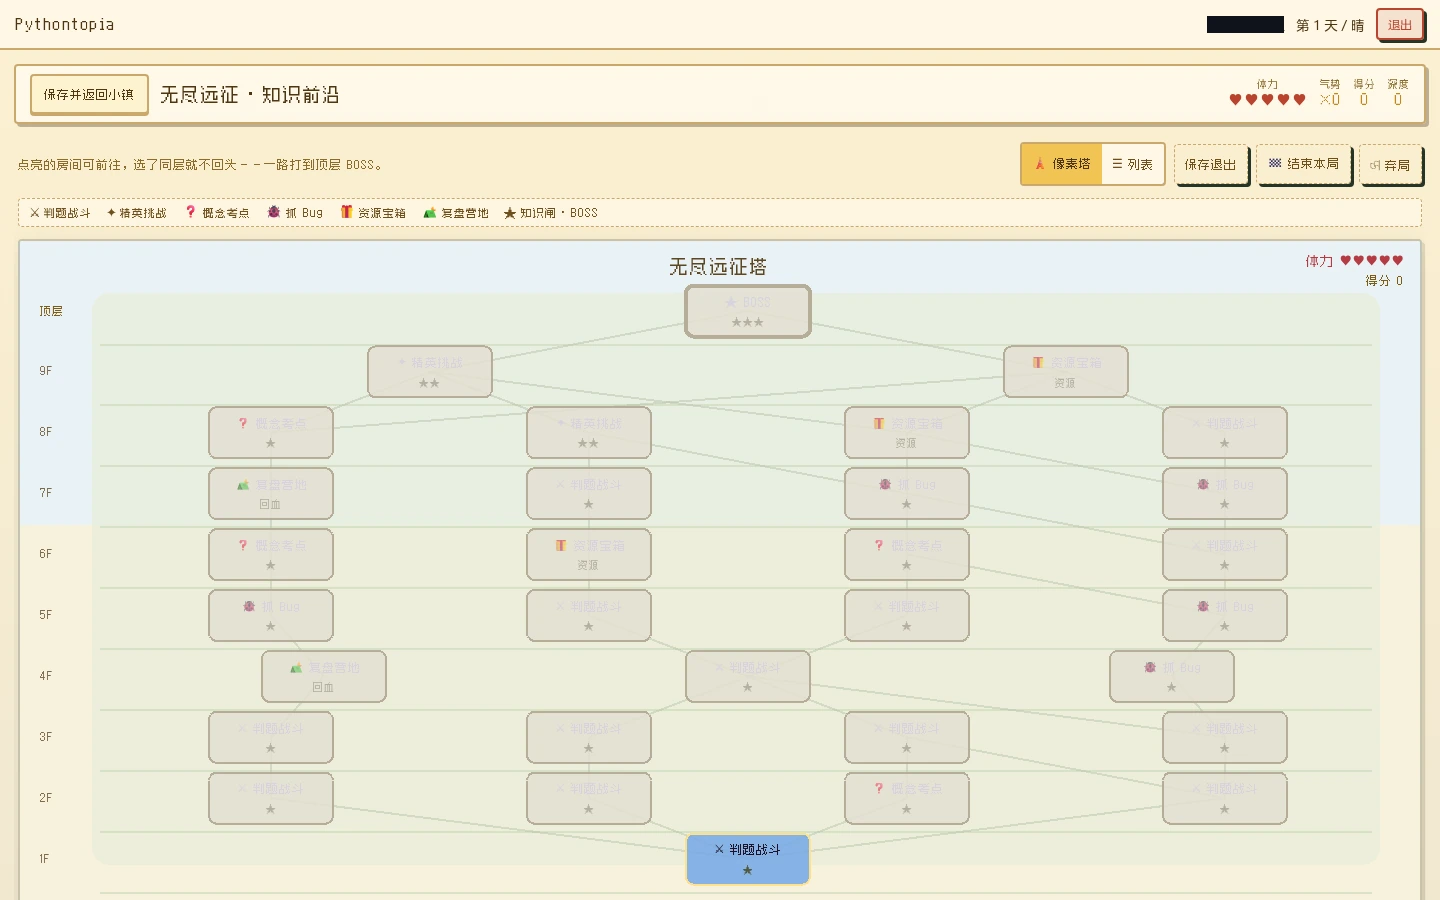
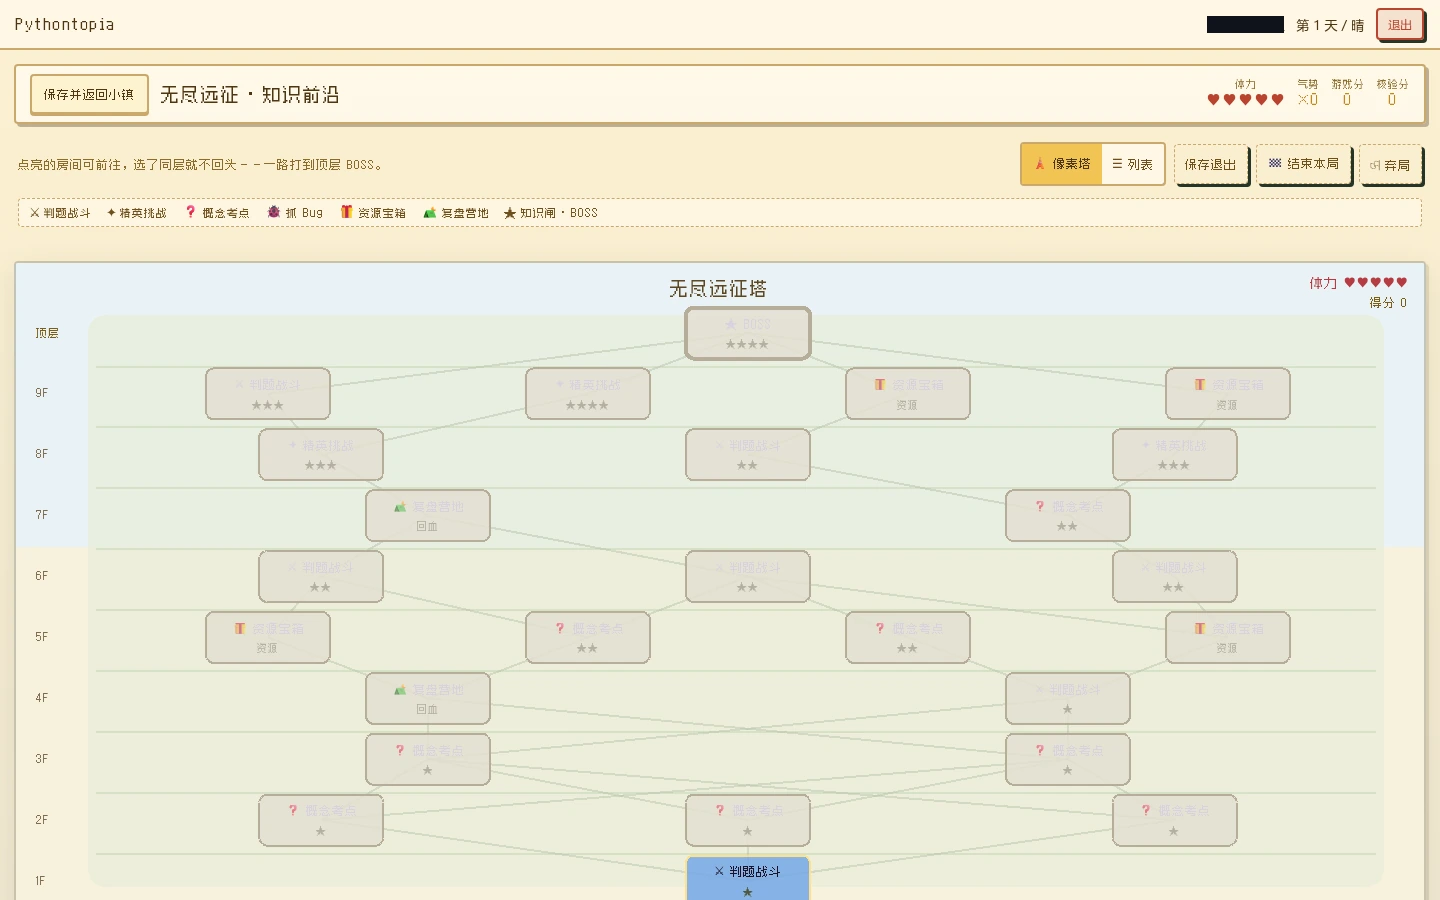
fix(web): close expedition and boss verification gaps

diff --git a/frontend/e2e/guideScreenshots.spec.ts b/frontend/e2e/guideScreenshots.spec.ts
@@ -547,8 +547,8 @@ test.describe('引导手册 23 张截图（输出 frontend/public/guide/screensh
 
   test('26-expedition-tower 无尽远征浅色分支地图', async ({ page, context, request }, testInfo) => {
     await prepareStudentContext(context, request);
-    await page.goto('/arena/1', { waitUntil: 'domcontentloaded' });
-    await expect(page).toHaveURL(/\/expedition\?focus=1/);
+    await page.goto('/expedition', { waitUntil: 'domcontentloaded' });
+    await expect(page).toHaveURL(/\/expedition$/);
     await expect(page.locator('[data-testid="expedition-page"]')).toBeVisible();
     await page.locator('[data-testid="expedition-begin"]').click();
     await expect(page.locator('[data-testid="expedition-map"]')).toBeVisible({ timeout: 60_000 });
@@ -560,7 +560,7 @@ test.describe('引导手册 23 张截图（输出 frontend/public/guide/screensh
 
   test('27-expedition-node 无尽远征节点挑战详情', async ({ page, context, request }, testInfo) => {
     await prepareStudentContext(context, request);
-    await page.goto('/arena/1', { waitUntil: 'domcontentloaded' });
+    await page.goto('/expedition', { waitUntil: 'domcontentloaded' });
     await expect(page.locator('[data-testid="expedition-page"]')).toBeVisible();
     await page.locator('[data-testid="expedition-begin"]').click();
     await expect(page.locator('[data-testid="expedition-map"]')).toBeVisible({ timeout: 60_000 });

diff --git a/frontend/tests/game/scenes/ExpeditionBossScene.spec.ts b/frontend/tests/game/scenes/ExpeditionBossScene.spec.ts
@@ -97,15 +97,26 @@ describe('ExpeditionBossScene', () => {
       expect.any(Number), expect.any(Number), '体力 3 / 5', expect.any(Object),
     );
 
-    const settledPass: ExpeditionBossView = {
+    const pendingAttempt: ExpeditionBossView = {
       ...READY_BOSS,
-      status: 'passed',
+      status: 'judging',
       attemptId: 'problem-42',
+    };
+    loadExpeditionBoss(pendingAttempt, { onBossHit });
+
+    expect(scene.cameraShake).not.toHaveBeenCalled();
+    expect(scene.cameraFlash).not.toHaveBeenCalled();
+    expect(onBossHit).not.toHaveBeenCalled();
+
+    const settledPass: ExpeditionBossView = {
+      ...pendingAttempt,
+      status: 'passed',
     };
     loadExpeditionBoss(settledPass, { onBossHit });
     loadExpeditionBoss(settledPass, { onBossHit });
 
     expect(scene.cameraShake).toHaveBeenCalledTimes(1);
+    expect(scene.cameraFlash).toHaveBeenCalledTimes(1);
     expect(onBossHit).toHaveBeenCalledTimes(1);
   });
 
@@ -127,6 +138,7 @@ describe('ExpeditionBossScene', () => {
       expect.any(Number), expect.any(Number), '体力 2 / 5', expect.any(Object),
     );
     expect(scene.cameraShake).not.toHaveBeenCalled();
+    expect(scene.cameraFlash).not.toHaveBeenCalled();
     expect(onBossHit).not.toHaveBeenCalled();
   });
 });

diff --git a/backend/src/main/java/com/pythontopia/world/boss/BossService.java b/backend/src/main/java/com/pythontopia/world/boss/BossService.java
@@ -1,5 +1,6 @@
 package com.pythontopia.world.boss;
 
+import com.pythontopia.common.error.BusinessException;
 import com.pythontopia.learner.event.LearningEvent;
 import com.pythontopia.learner.profile.dto.LearnerProfileSignals;
 import com.pythontopia.learner.profile.service.PassiveProfileService;
@@ -20,6 +21,7 @@ import com.pythontopia.world.boss.dto.BossProblemDto;
 import com.pythontopia.world.boss.dto.BossProblemRequest;
 import com.pythontopia.world.boss.dto.BossProblemRequest.ProfileSignalsPayload;
 import com.pythontopia.world.boss.dto.BossTestCasePayload;
+import com.pythontopia.world.boss.dto.FrontierPickDto;
 import com.pythontopia.world.boss.dto.FrontierSelectRequest;
 import com.pythontopia.world.boss.dto.FrontierSelectResultDto;
 import com.pythontopia.world.boss.review.ApprovedBossProblem;
@@ -40,6 +42,7 @@ import java.util.Set;
 import java.util.UUID;
 import java.util.concurrent.ConcurrentHashMap;
 import java.util.concurrent.ConcurrentMap;
+import java.util.stream.Collectors;
 import org.slf4j.Logger;
 import org.slf4j.LoggerFactory;
 import org.springframework.context.ApplicationEventPublisher;
@@ -136,7 +139,23 @@ public class BossService {
    */
   public FrontierSelectResultDto selectFrontier(
       Long userId, Integer focusChapter, String preferredKcCode) {
-    return learnerTwinService.frontier(userId, focusChapter, List.of(), 40, preferredKcCode);
+    FrontierSelectResultDto frontier =
+        learnerTwinService.frontier(userId, focusChapter, List.of(), 40, preferredKcCode);
+    List<String> candidateKcs =
+        frontier.picks().stream().map(FrontierPickDto::kcCode).distinct().toList();
+    Set<String> practiceKcs =
+        chapterProblemBankRepository.findByKcCodes(candidateKcs).stream()
+            .map(PreferredCodingQuestion::kcCode)
+            .collect(Collectors.toSet());
+    List<FrontierPickDto> playablePicks =
+        frontier.picks().stream().filter(pick -> practiceKcs.contains(pick.kcCode())).toList();
+    if (playablePicks.isEmpty()) {
+      throw new BusinessException(
+          org.springframework.http.HttpStatus.UNPROCESSABLE_ENTITY,
+          "EXPEDITION_NO_PRACTICE_PROBLEMS",
+          "当前学习范围没有可用于远征的课程编程题，请选择包含编程练习的章节");
+    }
+    return new FrontierSelectResultDto(playablePicks);
   }
 
   public BossProblemDto fetchProblem(int chapter, BossProblemRequest request, Long userId) {

diff --git a/backend/src/test/java/com/pythontopia/world/boss/BossServiceTest.java b/backend/src/test/java/com/pythontopia/world/boss/BossServiceTest.java
@@ -877,6 +877,51 @@ class BossServiceTest {
   }
 
   @Test
+  @DisplayName("远征开局过滤没有课程编程题的 KC，避免新手落在不可玩的首节点")
+  void expeditionFrontierOnlyIncludesKnowledgePointsWithCourseProblems() {
+    var candidates = new FrontierSelectResultDto(
+        List.of(
+            new FrontierPickDto("PY43-KC-001", 1, 1, "尚未评估"),
+            new FrontierPickDto("PY43-KC-016", 2, 1, "尚未评估")));
+    when(learnerTwinService.frontier(7L, null, List.of(), 40, "PY43-KC-001"))
+        .thenReturn(candidates);
+    when(chapterProblemBankRepository.findByKcCodes(List.of("PY43-KC-001", "PY43-KC-016")))
+        .thenReturn(List.of(courseProblem("PY43-KC-016")));
+
+    var result = service.selectFrontier(7L, null, "PY43-KC-001");
+
+    assertThat(result.picks()).extracting(FrontierPickDto::kcCode)
+        .containsExactly("PY43-KC-016");
+    verifyNoInteractions(graphClient);
+  }
+
+  @Test
+  @DisplayName("聚焦章节没有课程编程题时以明确业务错误拒绝开局")
+  void expeditionFrontierRejectsChapterWithoutCourseProblems() {
+    when(learnerTwinService.frontier(7L, 1, List.of(), 40, null))
+        .thenReturn(new FrontierSelectResultDto(
+            List.of(new FrontierPickDto("PY43-KC-001", 1, 1, "尚未评估"))));
+    when(chapterProblemBankRepository.findByKcCodes(List.of("PY43-KC-001")))
+        .thenReturn(List.of());
+
+    assertThatThrownBy(() -> service.selectFrontier(7L, 1, null))
+        .isInstanceOfSatisfying(
+            com.pythontopia.common.error.BusinessException.class,
+            exception -> {
+              assertThat(exception.code()).isEqualTo("EXPEDITION_NO_PRACTICE_PROBLEMS");
+              assertThat(exception.status())
+                  .isEqualTo(org.springframework.http.HttpStatus.UNPROCESSABLE_ENTITY);
+            });
+    verifyNoInteractions(graphClient);
+  }
+
+  private static PreferredCodingQuestion courseProblem(String kcCode) {
+    var sample = new CodingCase("", "0");
+    return new PreferredCodingQuestion(
+        1L, "course question", "statement", List.of(sample), List.of(sample), "print(0)", kcCode);
+  }
+
+  @Test
   @DisplayName("Boss 取题使用数字孪生针对当前 KC 的规则难度")
   void fetchProblemUsesSharedLearnerDifficultyInsteadOfClientDifficulty() {
     when(learnerTwinService.recommendedDifficulty(7L, "PY43-KC-001")).thenReturn(2);

diff --git a/backend/src/test/java/com/pythontopia/world/boss/ExpeditionRunPostgresIntegrationTest.java b/backend/src/test/java/com/pythontopia/world/boss/ExpeditionRunPostgresIntegrationTest.java
@@ -514,7 +514,7 @@ class ExpeditionRunPostgresIntegrationTest {
     long userId = createStudent();
     ExpeditionRunService runs = new ExpeditionRunService(jdbc, new ObjectMapper());
     ExpeditionRunDto active = startRun(runs, userId, 1, false);
-    Map<String, Object> chestNode = findNode(active, "chest");
+    Map<String, Object> chestNode = findRewardNode(active);
     List<String> sixRelics =
         List.of("calm_mind", "combo_scholar", "second_wind", "focus_lens", "quick_thinker", "first_aid");
     seedReachableNode(userId, active, chestNode, "reward", 2, 5, sixRelics);
@@ -546,7 +546,7 @@ class ExpeditionRunPostgresIntegrationTest {
     long userId = createStudent();
     ExpeditionRunService runs = new ExpeditionRunService(jdbc, new ObjectMapper());
     ExpeditionRunDto started = startRun(runs, userId, 1, false);
-    Map<String, Object> chestNode = findNode(started, "chest");
+    Map<String, Object> chestNode = findRewardNode(started);
     String nodeId = (String) chestNode.get("id");
     seedReachableNode(userId, started, chestNode, "reward", 2, 5, List.of());
 
@@ -1434,6 +1434,13 @@ class ExpeditionRunPostgresIntegrationTest {
         .filter(node -> kind.equals(node.get("kind")))
         .findFirst()
         .orElseThrow(() -> new AssertionError("Generated map has no " + kind + " node"));
+  }
+
+  private static Map<String, Object> findRewardNode(ExpeditionRunDto run) {
+    return run.nodes().stream()
+        .filter(node -> "chest".equals(node.get("kind")) || "elite".equals(node.get("kind")))
+        .findFirst()
+        .orElseThrow(() -> new AssertionError("Generated map has no reward node"));
   }
 
   private static Map<String, Object> nodeById(ExpeditionRunDto run, String nodeId) {

diff --git a/backend/src/test/java/com/pythontopia/learner/twin/AdaptivePracticePolicyTest.java b/backend/src/test/java/com/pythontopia/learner/twin/AdaptivePracticePolicyTest.java
@@ -78,6 +78,22 @@ class AdaptivePracticePolicyTest {
   }
 
   @Test
+  void allowsAnUnassessedTopicAsALevelOneDiagnosticWhenItsPrerequisitesAreAlsoUnassessed() {
+    var picks = policy.select(
+        List.of(
+            kc("KC-FOUNDATION", 1, false, null, false, List.of(), List.of()),
+            kc("KC-DIAGNOSTIC", 2, false, null, false, List.of(), List.of("KC-FOUNDATION"))),
+        Set.of(), null, List.of(), 40);
+
+    var diagnostic = picks.stream()
+        .filter(pick -> "KC-DIAGNOSTIC".equals(pick.kcCode()))
+        .findFirst()
+        .orElseThrow();
+    assertThat(diagnostic.difficulty()).isEqualTo(1);
+    assertThat(diagnostic.reason()).contains("尚未评估");
+  }
+
+  @Test
   void usesAnotherTopicWhenExcludedAndAllowsRepeatOnlyWhenNoAlternativeExists() {
     var topics = List.of(
         kc("KC-A", 1, true, 0.4, false, List.of(), List.of()),

diff --git a/backend/src/main/java/com/pythontopia/learner/twin/AdaptivePracticePolicy.java b/backend/src/main/java/com/pythontopia/learner/twin/AdaptivePracticePolicy.java
@@ -122,7 +122,14 @@ public class AdaptivePracticePolicy {
   private static boolean prerequisitesReady(Candidate candidate, Map<String, Candidate> byCode) {
     if (candidate == null) return false;
     for (String prerequisite : candidate.prerequisiteCodes()) {
-      if (!prerequisiteReady(byCode.get(prerequisite))) return false;
+      Candidate prerequisiteCandidate = byCode.get(prerequisite);
+      if (!prerequisiteReady(prerequisiteCandidate)) {
+        // Unknown prerequisites do not prove weakness; allow only an unassessed target as a
+        // level-one diagnostic. Known low mastery still blocks the next topic.
+        if (prerequisiteCandidate == null
+            || candidate.assessed()
+            || prerequisiteCandidate.assessed()) return false;
+      }
     }
     return true;
   }

diff --git a/docs/guide/screenshot-manifest.md b/docs/guide/screenshot-manifest.md
@@ -62,8 +62,8 @@
 | 23 | `23-clients.webp` | `/guide?topic=clients` | 学生会话；滚动到「多端下载」主题的下载卡片区 | `guide-content` 含「多端下载」→ `guide-downloads` 可见并含 Android / Windows 下载卡 | 无 |
 | 24 | `24-code-theater-stage.webp` | `/code-theater` | 学生会话；点「运行」后代码傀儡执行到循环中段（脚本梯发光行、变量牌翻新、循环跑道计数） | `code-theater-page` 与 `ct-quest` 可见 → 点 `ct-run` → `ct-stage` 与 `ct-steps` 可见，傀儡停在 `ct-world` 内某一执行行 | 无 |
 | 25 | `25-endless-result.webp` | `/endless` | 学生会话；点 `endless-start` 连答数题后命中一次判题结算 | `endless-page` → `endless-start` → `endless-body` → 至少一次 `endless-submit` → `endless-result` 可见，且 `endless-streak` / `endless-total-score` 有值 | 无 |
-| 26 | `26-arena-tower.webp` | `/arena/1` | 学生会话；展示第 1 章闯关塔 10 关阶梯（9 小关 + 第 10 关 BOSS），部分已通关点亮 | `arena-page` → `arena-steps` 可见 → 10 个 `arena-step-1-1`…`arena-step-1-10` 渲染（末关为 boss） | 无 |
-| 27 | `27-loop-mastery.webp` | `/arena/1` | 学生会话；点开某一关详情，展示该关 KC、弱项推荐徽标与画像接入提示（练→测→掌握→画像回流的落点） | `arena-page` → 点某个 `arena-step-1-*` → `arena-detail` 可见 → `arena-reco-badge` 与 `arena-profile-hint` 可见 | 无 |
+| 26 | `26-arena-tower.webp` | `/expedition` | 学生会话；开始一局全局自适应远征，展示 10 层分支地图与顶层 Boss 节点 | `expedition-page` → 点 `expedition-begin` → `expedition-map` 与 Phaser `expedition-canvas` 可见 | 新手以难度 1 诊断尚未评估知识点；课程题库无可玩题时提示先修学习路径 |
+| 27 | `27-loop-mastery.webp` | `/expedition` | 学生会话；开始远征并进入可达挑战节点，展示服务端课程题、KC 与统一编辑器 | `expedition-page` → 点 `expedition-begin` → 地图列表中进入可达节点 → `expedition-challenge` 与 `challenge-workspace` 可见 | 远征题优先复用预生成题，Graph 不可用时使用同 KC 课程题库兜底 |
 | 28 | `28-code-theater-debug.webp` | `/code-theater` | 学生会话；模拟「从失败练习跳入」（载入一段未通过代码）运行后，世界目标未全部达成（如第 4 盏灯仍黑） | `code-theater-page` 与 `ct-quest` 可见 → 点 `ct-run` → `ct-world` 显示部分目标未点亮（未达成态） | 无 |
 | 29 | `29-endless-weak-kc.webp` | `/endless` | 学生会话；锁定 `endless-focus-chapter` 后连答，展示按画像弱项出题 + 历史记录 | `endless-page` → 选择 `endless-focus-chapter` → `endless-start` → `endless-history` 可见且含知识点 / 难度记录 | 无 |
 

diff --git a/docs/plans/2026-10-13-digital-twin-simplification-worklog.md b/docs/plans/2026-10-13-digital-twin-simplification-worklog.md
@@ -169,3 +169,10 @@
 - 远征地图/Phaser 帧率沿用同日此前 Chromium 样本（地图就绪 1.89 s、Boss 帧间隔 P50/P95 16.7/16.8 ms；合成结算状态），本次未重复浏览器地图采样。ECS/公网、真实用户视觉质量与完整 Maven 成功仍未验证。
 - 工程命名/格式检查以 [Google Java Style Guide](https://google.github.io/styleguide/javaguide.html)、[Vue props guide](https://vuejs.org/guide/components/props)、[typescript-eslint naming-convention](https://typescript-eslint.io/rules/naming-convention/) 为参考，限于本轮触及文件，不触发全仓重排。已删除临时性能账号并停止本地开发容器；数据卷保留。
 - 停止开发栈后重跑完整后端 `mvn test`：1353 tests、0 failures、7 errors，`BUILD FAILURE`。Surefire 确认 6 个 pgvector Testcontainers 因 Docker 动态宿主端口 `address already in use` 无法启动，另 `LongTermClassroomEffectSimulationTest` 遇 JDBC 连接拒绝；单线程重跑没有消除该环境问题。
+
+## 2026-10-14 收尾复验：未评估 KC 诊断入口
+
+- 真实新手画像的 frontier 仅包含首个未评估 KC；若其先修也未评估，策略允许该 KC 以难度 1 进入诊断练习。Boss 题目入口同时过滤无课程编程题的 KC；显式聚焦无题 KC 时返回 `EXPEDITION_NO_PRACTICE_PROBLEMS`，不伪造题目或能力证据。
+- 本轮后端相关测试隔离复跑：`AdaptivePracticePolicyTest` 6 项、`BossServiceTest` 45 项、`ExpeditionRunPostgresIntegrationTest` 27 项通过；Testcontainers 空库迁移到 V212。全量 Web 266 个文件 / 2533 项 Vitest 通过，typecheck 通过；全量 Maven 1359 项中 0 assertion failures、7 个环境级 errors（6 个 pgvector 容器启动失败、1 个长期仿真数据库连接拒绝）。
+- 功能复验结束后，经本地 Vite 代理连续启动远征 14 次（2 次预热，12 个计时样本）：P50 20.14 ms、P95 24.75 ms，地图 29 个节点；未发起 DeepSeek 请求，临时账号与存档已删除。此处只测建局接口，不代表 Graph 出题、正式判题或线上延迟。
+- Twin 的学习成效 A/B、BKT/未来路线概率、ECS/公网和真实用户长期效果仍属计划暂缓或未验证项；不得以本次功能回归代替成效评估。

diff --git a/docs/plans/2026-10-14-web-engineering-cleanup-worklog.md b/docs/plans/2026-10-14-web-engineering-cleanup-worklog.md
@@ -9,3 +9,9 @@
 - 生产构建保留 Vite 对 Pyodide Node 内置模块 externalize 和若干大 chunk 的现有 warning；未调整包拆分或运行时加载策略，因为这属于性能工作，按用户要求后置。
 - 后端当前快照全量 `mvn test` 为 1356 tests、0 failures、7 errors，6 个 pgvector Testcontainers 在映射宿主端口时遇 `address already in use`，另 1 个长期仿真 JDBC reset；单独重跑后长期仿真通过，但 6 个容器用例仍撞端口。当前本机 ephemeral port range 仅为 `44620 48715`，数据库流量产生的 TIME-WAIT 端口与 Docker 随机映射重叠。本轮没有改系统网络配置；Boss 改动的 61 项定向 Maven 测试通过。
 - 全仓 Spotless 仍有历史 Java 格式债务。此次聚焦 Web，不做 622 个 Java 文件的批量重排，也不重命名跨语言 API DTO。Twin 学习成效对照、完整 Boss 最终节点的浏览器实战演出、生产 Piston/ECS 与公网验证仍未完成。
+
+## 2026-10-14 收尾复验
+
+- 当前快照 Web Vitest 为 266 files / 2533 tests，通过；TypeScript typecheck 通过；全量 ESLint 0 errors / 7 warnings，warning 仍限于未改文件中的可选 prop 提示和账号隔离测试 mock。远征地图/挑战入口 Chromium E2E 2 项通过，`git diff --check` 通过。
+- 本轮改动涉及的后端类隔离复跑 78 项通过。全量 Maven 为 1359 tests、0 assertion failures、7 errors；6 个 pgvector Testcontainers 在启动阶段失败，另一个长期仿真用例因 PostgreSQL 连接拒绝失败。没有将全量结果标记为通过。
+- 工程命名/格式遵循 Google Java、Vue 与 typescript-eslint 官方指引；保留已有 7 条 lint warning，不在此次功能收尾中扩大成全仓格式重排。功能验证完成后，经 Vite 代理对远征建局做 12 个计时样本，P50 20.14 ms、P95 24.75 ms；不包含模型生成与正式判题延迟。

diff --git a/docs/project/CHANGELOG.md b/docs/project/CHANGELOG.md
@@ -1,5 +1,13 @@
 # Changelog
 
+## 2026-10-14 — 远征与 Web 收尾复验
+
+- 首次进入全局远征时，未评估 KC 且其先修同样未评估的节点可作为难度 1 诊断练习；正式选题仍只保留课程编程题库确有题目的 KC，无匹配题时返回明确错误，不借用其他知识点题目。
+- 浏览器引导截图改为当前 `/expedition` 入口，更新地图与真实课程题截图。Chromium 两项通过；Web 全量 Vitest 266 个文件 / 2533 项通过，TypeScript typecheck 通过；全量 ESLint 0 errors、7 条既有 warning。
+- 本轮涉及的后端选题、Boss 服务和 PostgreSQL 远征集成测试单独通过，共 78 项。全量 `mvn test` 为 1359 tests、0 assertion failures、7 errors：6 个 pgvector Testcontainers 启动错误，另 1 个长期仿真测试数据库连接拒绝；全量未通过。
+- Boss Phaser 场景新增回归覆盖结算成功后只播放一次受击、失败不扣 Boss 血量；完整最终 Boss 实际判题浏览器流程仍未验证。DeepSeek 文图真实调用证据见下方既有记录；本次没有增加模型请求。
+- 功能复验后完成最后一轮本地性能采样：经 Vite 代理启动远征 14 次（2 次预热、12 个计时样本），建局 P50 20.14 ms、P95 24.75 ms，地图 29 个节点；未发起 DeepSeek 请求，临时账号与存档已清理。该采样不涵盖 Graph 出题、正式判题、完整 Boss 实战或线上负载。
+
 ## 2026-10-14 — 状态文档与模型出口纠偏
 
 - 将比赛符合度、执行日志和 Beta 回归报告中的旧 Spark/TTS 配置标为历史状态，补上当前 DeepSeek 文图输入契约与 TTS/ASR 等媒体出口关闭说明，避免旧截图或结果被误用作当前验收结论。

diff --git a/docs/plans/2026-10-14-expedition-boss-scene.md b/docs/plans/2026-10-14-expedition-boss-scene.md
@@ -114,4 +114,5 @@ Expected: no whitespace errors; asset sync check reports no missing required fil
 - The scene only runs its hit effect/audio after a settled passing result. The failed-result path keeps Boss health intact and displays the run's real HP. Existing portraits are reused; one Kenney CC0 impact sound is registered in both license indexes and the asset sync manifest.
 - Focused frontend verification passed: 4 files / 17 tests, `npm run typecheck`, targeted ESLint, production build, `git diff --check`, and `node scripts/sync-assets.mjs --check`.
 - Local Chromium full-stack smoke passed: one canvas survived map-to-Boss transition, the portrait and OGG returned HTTP 200, and there were no page errors or failed requests. The pass/fail visual-state browser probe used injected settled state; actual judging is covered by backend/page tests.
+- Follow-up verification: a Phaser scene unit test confirms only a settled pass animates a single hit for an attempt id and a failed result never damages the Boss. Two Chromium guide flows passed for the expedition map and a reachable course-problem node. The complete final Boss multi-phase real-submit browser journey remains unverified.
 - Performance sampling and limitations are recorded in `docs/plans/2026-10-13-digital-twin-simplification-worklog.md`.
